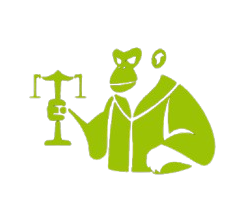
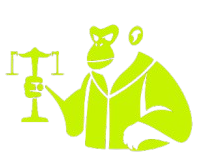
set primary color

diff --git a/client/src/App.tsx b/client/src/App.tsx
@@ -195,7 +195,7 @@ function App() {
               <div className="max-w-7xl mx-auto">
                 <div className="flex justify-center items-center">
                   <img src={judgeRight} alt="AI Debates Logo" className="w-20 mb-2 mr-4" /> 
-                  <h1 className="md:text-5xl font-bold text-yellowgreen-400 text-center uppercase courier">
+                  <h1 className="md:text-5xl font-bold text-yellowgreen-100 text-center uppercase courier">
                     <span className='text-2xl md:text-5xl' style={{lineHeight: '1'}}>AI-Powered</span> <span className='text-4xl md:text-5xl' style={{lineHeight: '1'}}>Debates</span>
                   </h1>
                   <img src={judgeLogo} alt="AI Debates Logo" className="w-20 mb-2 ml-4" /> 
@@ -213,7 +213,7 @@ function App() {
                     {/* Launch Button */}
                     <button
                       onClick={() => setIsModalOpen(true)}
-                      className="w-full px-6 py-2.5 bg-yellowgreen-400 hover:bg-yellowgreen-100 text-gray-900 font-medium rounded-lg flex items-center justify-center gap-2 transition-colors border border-yellowgreen-400 lowercase"
+                      className="w-full px-6 py-2.5 bg-yellowgreen-100 hover:bg-superyellowgreen-100 text-gray-900 font-medium rounded-lg flex items-center justify-center gap-2 transition-colors border border-yellowgreen-400 lowercase"
                     >
                       <SparkleIcon />
                       Launch New Debate
@@ -287,7 +287,7 @@ function App() {
                     {/* Launch Button Column */}
                     <button
                       onClick={() => setIsModalOpen(true)}
-                      className="px-6 py-2.5 bg-yellowgreen-400 hover:bg-yellowgreen-100 text-gray-900 font-medium rounded-lg flex items-center justify-center gap-2 transition-colors border border-yellowgreen-400 lowercase"
+                      className="px-6 py-2.5 bg-yellowgreen-100 hover:bg-superyellowgreen-100 text-gray-900 font-medium rounded-lg flex items-center justify-center gap-2 transition-colors border border-yellowgreen-400 lowercase"
                     >
                       <SparkleIcon />
                       Launch New Debate

diff --git a/client/src/components/LaunchModal.tsx b/client/src/components/LaunchModal.tsx
@@ -139,7 +139,7 @@ const LaunchModal: React.FC<LaunchModalProps> = ({ isOpen, onClose, onSuccess })
                 <button
                   type="submit"
                   disabled={!prompt.trim() || isSubmitting}
-                  className="px-6 py-2 bg-yellowgreen-400 hover:bg-yellowgreen-100 text-gray-900 font-medium rounded-lg flex items-center justify-center gap-2 transition-colors disabled:opacity-50 disabled:cursor-not-allowed lowercase"
+                  className="px-6 py-2 bg-yellowgreen-100 hover:bg-superyellowgreen-100 text-gray-900 font-medium rounded-lg flex items-center justify-center gap-2 transition-colors disabled:opacity-50 disabled:cursor-not-allowed lowercase"
                 >
                   {isSubmitting ? (
                     <div className="animate-spin rounded-full h-5 w-5 border-b-2 border-gray-900" />

diff --git a/client/src/components/BettingPanel.tsx b/client/src/components/BettingPanel.tsx
@@ -366,7 +366,7 @@ const BettingPanel: React.FC<Props> = ({ debateId, agents, poolSize, agentPools 
                       setBetAmounts(newBetAmounts as [string, string]);
                     }}
                   />
-                  <button style={{width: "40%"}} className="px-4 py-2 bg-yellowgreen-400 text-gray-900 rounded text-sm font-medium hover:bg-yellowgreen-300 transition-colors lowercase" onClick={() => placeBet(index, betAmounts[index])}>
+                  <button style={{width: "40%"}} className="px-4 py-2 bg-yellowgreen-100 hover:bg-superyellowgreen-100 text-gray-900 rounded text-sm font-medium transition-colors lowercase" onClick={() => placeBet(index, betAmounts[index])}>
                     Place Bet
                   </button>
                 </div>

diff --git a/client/src/components/DebateCard.tsx b/client/src/components/DebateCard.tsx
@@ -62,7 +62,7 @@ const DebateCard = ({ debate }: DebateCardProps) => {
             </div>
             <Link 
               to={`/debates/${debate._id}`}
-              className="w-full md:w-auto bg-yellowgreen-500 hover:bg-yellowgreen-100 text-gray-900 px-4 py-2 rounded-lg font-medium transition-colors lowercase text-center"
+              className="w-full md:w-auto bg-yellowgreen-100 hover:bg-superyellowgreen-100 text-gray-900 px-4 py-2 rounded-lg font-medium transition-colors lowercase text-center"
             >
               Join Debate
             </Link>

diff --git a/client/tailwind.config.js b/client/tailwind.config.js
@@ -17,6 +17,9 @@ module.exports = {
           800: "#1F2937",
           900: "#111827",
         },
+        superyellowgreen: {
+          100: "#BCF549",
+        },
       },
       boxShadow: {
         glow: "0 0 15px rgba(157, 194, 9, 0.2)",
@@ -57,6 +60,9 @@ module.exports = {
       },
       animation: {
         slideIn: "slideIn 0.5s cubic-bezier(0.36, 0, 0.66, -0.56)",
+      },
+      borderRadius: {
+        "4xl": "50px",
       },
     },
   },
